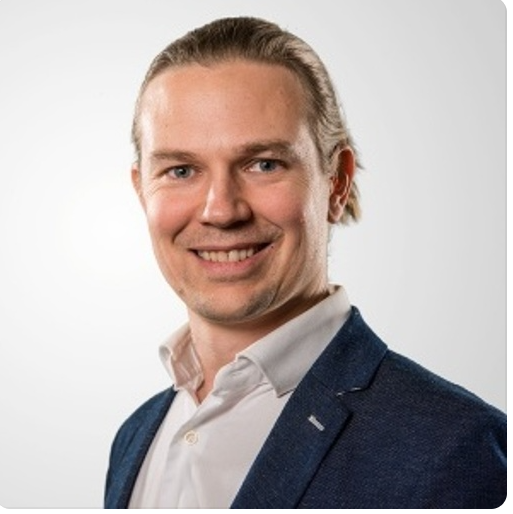
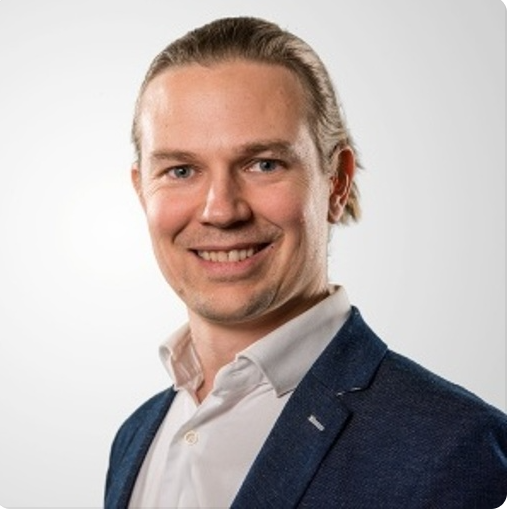
Update team photos
Replace Theresa.Reisch.jpeg with Theresa.png and refresh Tobias.png.

diff --git a/assets/js/content.js b/assets/js/content.js
@@ -109,7 +109,7 @@ const TEAM = [
       { name: "Stephen Mulligan",   role: "PhD Student", photo: "", blurb: "Searches for New Physics and Optimal Detector Design.", links: {} },
       { name: "Ivan Oleksiyuk",     role: "PhD Student", photo: "", blurb: "Co-supervised with Prof. Voloshynovskiy. Searches for New Physics.", links: {} },
       { name: "Giovanni Ottaviano", role: "PhD Student", photo: "", blurb: "Co-supervised with Prof. Biau (Sorbonne University). Foundation Models and Agentic AI.", links: {} },
-      { name: "Theresa Reisch",     role: "PhD Student", photo: "images/team/Theresa.Reisch.jpeg", blurb: "Searches for New Physics and Flavour Tagging in ATLAS.", links: {} },
+      { name: "Theresa Reisch",     role: "PhD Student", photo: "images/team/Theresa.png", blurb: "Searches for New Physics and Flavour Tagging in ATLAS.", links: {} },
       { name: "Matej Repik",        role: "PhD Student", photo: "", blurb: "ATLAS ITk Upgrade Development.", links: {} },
       { name: "Vincent Riechers",   role: "PhD Student", photo: "", blurb: "Optimal Detector Design.", links: {} },
       { name: "Franck Rothen",      role: "PhD Student", photo: "", blurb: "Uncertainty Aware Classification.", links: {} },

diff --git a/index.html b/index.html
@@ -5,7 +5,7 @@
 <meta name="viewport" content="width=device-width, initial-scale=1">
 <title>Golling Group — Machine Learning for Particle Physics | University of Geneva</title>
 <meta name="description" content="The Golling Group at the University of Geneva develops machine learning methods for experimental particle physics at the LHC, with the ATLAS experiment at CERN.">
-<link rel="stylesheet" href="assets/css/style.css?v=22">
+<link rel="stylesheet" href="assets/css/style.css?v=23">
 </head>
 <body>
 
@@ -166,7 +166,7 @@
   </div>
 </footer>
 
-<script src="assets/js/content.js?v=22"></script>
-<script src="assets/js/render.js?v=22"></script>
+<script src="assets/js/content.js?v=23"></script>
+<script src="assets/js/render.js?v=23"></script>
 </body>
 </html>

diff --git a/cv.html b/cv.html
@@ -5,7 +5,7 @@
 <meta name="viewport" content="width=device-width, initial-scale=1">
 <title>Tobias Golling — CV | Golling Group, University of Geneva</title>
 <meta name="description" content="Curriculum vitae of Tobias Golling, Département de Physique Nucléaire et Corpusculaire, University of Geneva.">
-<link rel="stylesheet" href="assets/css/style.css?v=22">
+<link rel="stylesheet" href="assets/css/style.css?v=23">
 </head>
 <body>
 
@@ -52,7 +52,7 @@
   </div>
 </footer>
 
-<script src="assets/js/content.js?v=22"></script>
-<script src="assets/js/render.js?v=22"></script>
+<script src="assets/js/content.js?v=23"></script>
+<script src="assets/js/render.js?v=23"></script>
 </body>
 </html>

diff --git a/talks.html b/talks.html
@@ -5,7 +5,7 @@
 <meta name="viewport" content="width=device-width, initial-scale=1">
 <title>Talks — Golling Group | University of Geneva</title>
 <meta name="description" content="Talks, seminars and conference presentations by the Golling Group at the University of Geneva.">
-<link rel="stylesheet" href="assets/css/style.css?v=22">
+<link rel="stylesheet" href="assets/css/style.css?v=23">
 </head>
 <body>
 
@@ -52,7 +52,7 @@
   </div>
 </footer>
 
-<script src="assets/js/content.js?v=22"></script>
-<script src="assets/js/render.js?v=22"></script>
+<script src="assets/js/content.js?v=23"></script>
+<script src="assets/js/render.js?v=23"></script>
 </body>
 </html>

diff --git a/publications.html b/publications.html
@@ -5,7 +5,7 @@
 <meta name="viewport" content="width=device-width, initial-scale=1">
 <title>Publications — Golling Group | University of Geneva</title>
 <meta name="description" content="Publications from the Golling Group at the University of Geneva.">
-<link rel="stylesheet" href="assets/css/style.css?v=22">
+<link rel="stylesheet" href="assets/css/style.css?v=23">
 </head>
 <body>
 
@@ -53,7 +53,7 @@
   </div>
 </footer>
 
-<script src="assets/js/content.js?v=22"></script>
-<script src="assets/js/render.js?v=22"></script>
+<script src="assets/js/content.js?v=23"></script>
+<script src="assets/js/render.js?v=23"></script>
 </body>
 </html>

diff --git a/news.html b/news.html
@@ -5,7 +5,7 @@
 <meta name="viewport" content="width=device-width, initial-scale=1">
 <title>News — Golling Group | University of Geneva</title>
 <meta name="description" content="News and updates from the Golling Group at the University of Geneva.">
-<link rel="stylesheet" href="assets/css/style.css?v=22">
+<link rel="stylesheet" href="assets/css/style.css?v=23">
 </head>
 <body>
 
@@ -49,7 +49,7 @@
   </div>
 </footer>
 
-<script src="assets/js/content.js?v=22"></script>
-<script src="assets/js/render.js?v=22"></script>
+<script src="assets/js/content.js?v=23"></script>
+<script src="assets/js/render.js?v=23"></script>
 </body>
 </html>
